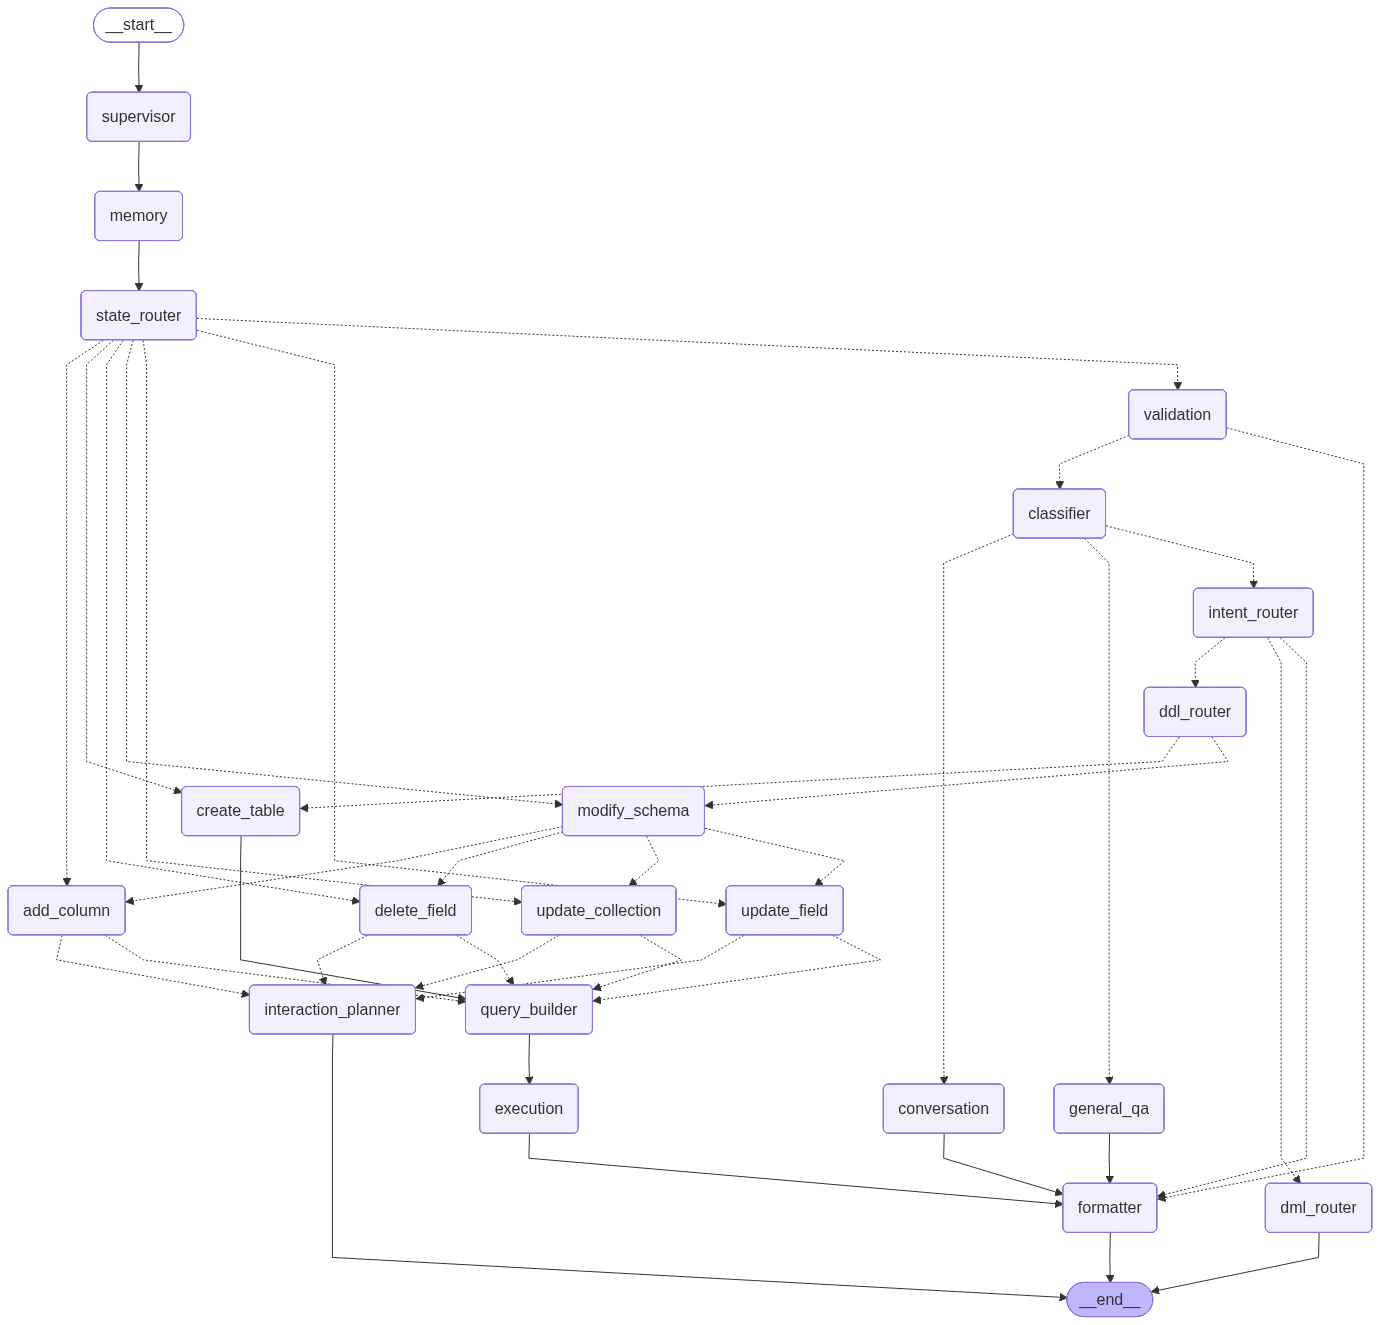
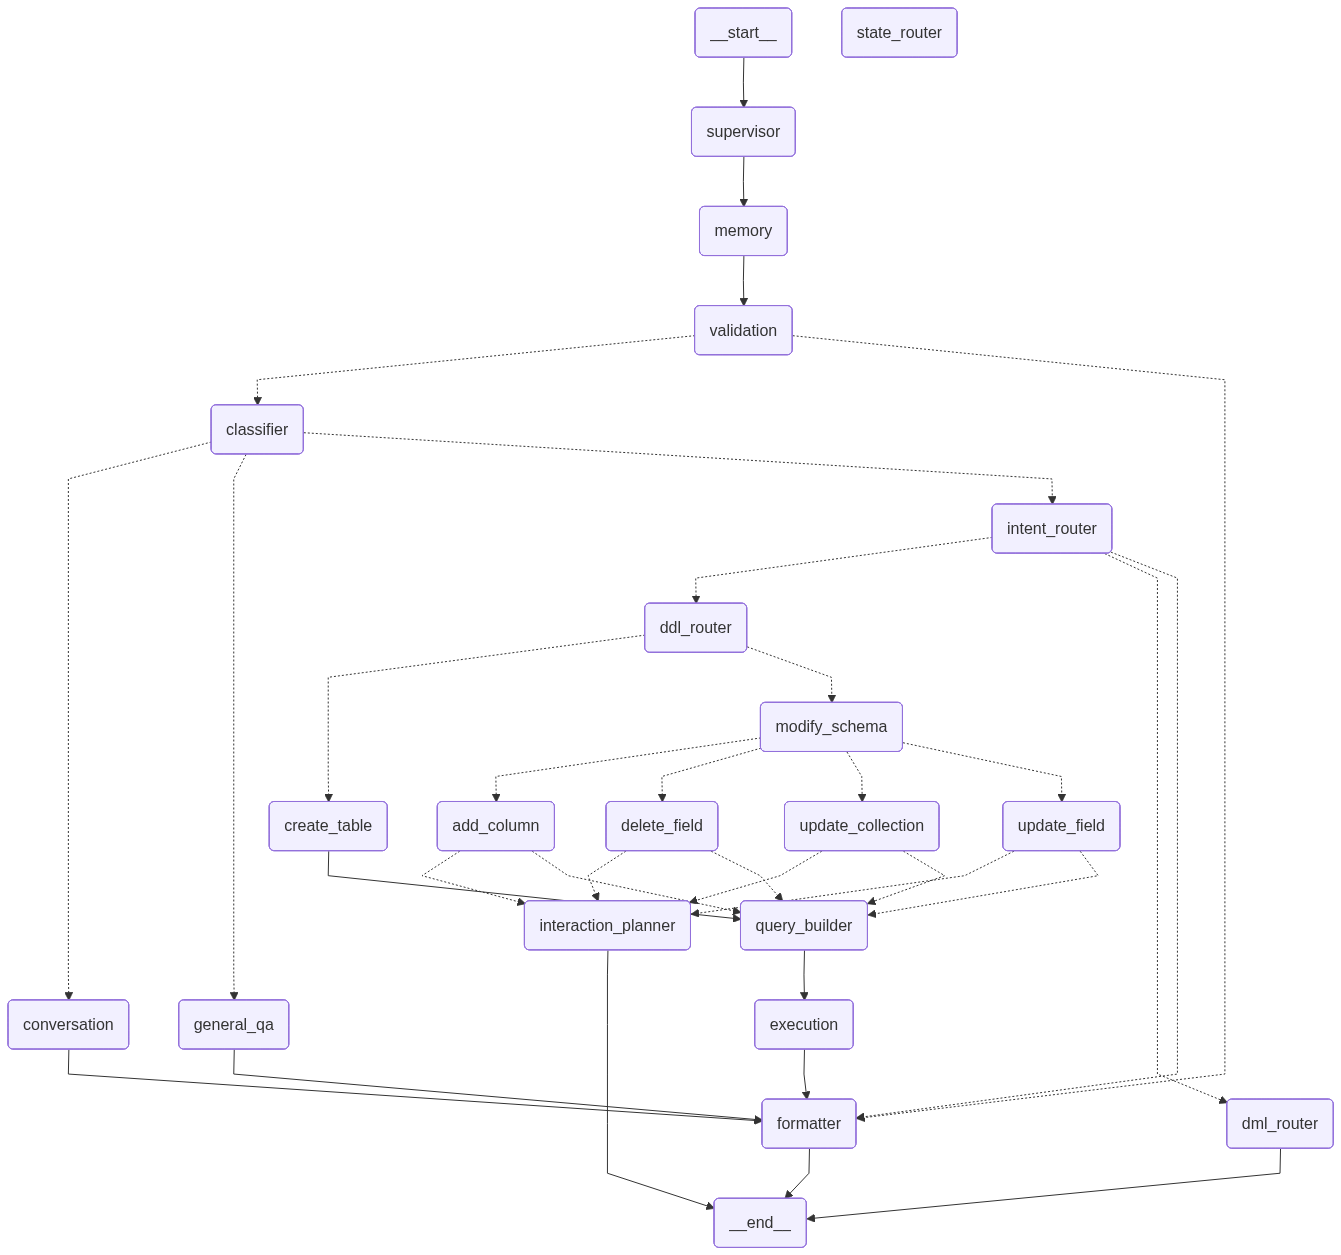
remove edge from state_router

diff --git a/ai-agents/app/graph/workflow.py b/ai-agents/app/graph/workflow.py
@@ -84,23 +84,6 @@ def router_modify_schema_operation(state: AgentState):
     print(f"[router_modify_schema_operation] Routing to '{op}'")
     return op
 
-def router_state_decision(state: AgentState):
-    """
-    Reads the route decision written by StateRouterAgent and returns the
-    target node name for LangGraph's conditional edge dispatcher.
-    Falls back to 'validation' if the field is missing or unrecognised.
-    """
-    decision = state.get("route_decision", "validation")
-    allowed = {
-        "create_table", "modify_schema",
-        "add_column", "update_collection", "update_field", "delete_field",
-        "validation"
-    }
-    if decision not in allowed:
-        print(f"[router_state_decision] Unexpected decision '{decision}' — defaulting to 'validation'.")
-        return "validation"
-    print(f"[router_state_decision] Dispatching to '{decision}'")
-    return decision
 
 def create_workflow():
     """
@@ -134,26 +117,8 @@ def create_workflow():
     workflow.set_entry_point("supervisor")
     workflow.add_edge("supervisor", "memory")
 
-    # MemoryManager → StateRouterAgent (LLM-based decision)
-    # StateRouterAgent only routes to:
-    #   • an active DDL sub-agent   (when interaction_phase == True)
-    #   • validation                (fresh request — let full pipeline run)
-    # It NEVER routes to intent_router (IntentRouterAgent must only run
-    # after TaskPlannerAgent has built the task queue).
-    workflow.add_edge("memory", "state_router")
-    workflow.add_conditional_edges(
-        "state_router",
-        router_state_decision,
-        {
-            "create_table":       "create_table",
-            "modify_schema":      "modify_schema",
-            "add_column":         "add_column",
-            "update_collection":  "update_collection",
-            "update_field":       "update_field",
-            "delete_field":       "delete_field",
-            "validation":         "validation",
-        }
-    )
+    # MemoryManager → validation
+    workflow.add_edge("memory", "validation")
 
     
     # Scoping Phase

diff --git a/ai-agents/app/agents/ddl/create_table_agent.py b/ai-agents/app/agents/ddl/create_table_agent.py
@@ -63,7 +63,9 @@ async def create_table_agent(state: AgentState) -> AgentState:
         "3. AUTOMATIC RELATIONS: Infer and link entities logically (order -> customer, enrollment -> student).\n"
         "4. CONSTRAINT INFERENCE: Apply required: true, unique: true, enums (status: ['pending', 'active']), and defaults automatically.\n"
         "5. MULTILINGUAL & SPELLING: Correct errors ('emploee' -> employee) and infer intent from Spanish, French, Hindi, Gujarati, etc.\n"
-        "6. NORMALIZATION: Prefer clean, relational data models (e.g. separate addresses into a component or table if appropriate, link objects correctly).\n\n"
+        "6. NORMALIZATION: Prefer clean, relational data models (e.g. separate addresses into a component or table if appropriate, link objects correctly).\n"
+        "7. DEPENDENCY ORDERING: When generating multiple tables, you MUST output them in creation order. Parent tables (those being referenced) MUST appear in the 'tables' array BEFORE dependent tables (those containing the relation field).\n"
+        "   Example: If 'employee' depends on 'company', 'company' MUST be the first item in the array.\n\n"
         "DATABASE CONTEXT:\n"
         f"Existing Collections in Database: {', '.join(existing_cols_list) if existing_cols_list else 'None'}\n"
         "- NEVER recreate existing tables.\n"
